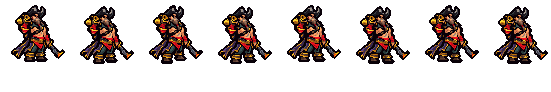
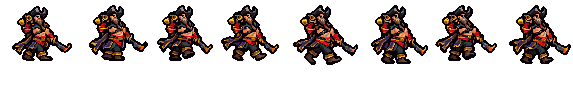
Gangplank's walk from Codex's skin swap over oppi's Swain run (「船长走路也有点僵硬的」): read back by design_gangplank_run.py, the design's head/hat/cannon stamped, rig_gangplank codex_walk

Changed region(s): [[0.0, 0.0435, 1.0, 0.6957]]

diff --git a/tools/art/design_gangplank_run.py b/tools/art/design_gangplank_run.py
@@ -1,0 +1,120 @@
+#!/usr/bin/env python3
+"""Gangplank's walk: Codex's skin swap over oppi's Swain run (assets/source/gangplank/codex_run/gangplank-run-generated.png,
+2026-10-18, tools/art/pack_redo_1018.py; the user: 「船长走路也有点僵硬的」) read back as 8 frames on the design's grid for
+tools/art/rig_gangplank.py.
+
+    python tools/art/design_gangplank_run.py [--probe]   # -> assets/source/gangplank/hd/run_<k>.png (k = 0..7)
+
+Read from Codex's raw generation (1902 x 827; the delivered 2208 x 960 is that picture enlarged by 1.16, so its squares
+are uneven). Each figure is found as a big non-green piece, read back at SIZE px a square (regrid.py; --probe prints the
+read-back heights at several sizes against the design's 62 rows hat to soles), alpha 0/255 at 128; the key's fringe
+(green 40 over red and blue) is cleared; every colour is snapped to the design's own palette; 8-connected crumbs of at
+most 4 squares apart from the figure are dropped; the design's head, hat and hand cannon (top HEAD_ROWS rows) stamped
+on each frame where they match best. The frames keep oppi's order.
+"""
+import argparse
+import os
+import sys
+
+import numpy as np
+from PIL import Image
+from scipy import ndimage
+
+HERE = os.path.dirname(os.path.abspath(__file__))
+ROOT = os.path.dirname(os.path.dirname(HERE))
+sys.path.insert(0, HERE)
+sys.path.insert(0, os.path.join(ROOT, ".claude", "skills", "tfm2-hero-mod", "scripts"))
+import regrid as RG  # noqa: E402
+
+
+def lp(p):
+    p = os.path.abspath(p)
+    pre = chr(92) * 2 + "?" + chr(92)
+    return pre + p if os.name == "nt" and not p.startswith(pre) else p
+
+
+SRC = os.path.join(ROOT, "assets", "source", "gangplank")
+SHEET = os.path.join(SRC, "codex_run", "gangplank-run-generated.png")
+SIZE = 6.15
+DESIGN_ROWS = 62
+HEAD_ROWS = 24          # the design's hat, face, beard top and the hand cannon on the shoulder: stamped as drawn on every
+                        # frame (Codex redrew them 0-15 % bigger or smaller frame to frame - a flickering head)
+
+
+def stamp_head(d, des):
+    """The design's top HEAD_ROWS rows put over the frame where they match best; the frame's own squares inside that
+    box cleared first (its redrawn hat and cannon)."""
+    t = des[:HEAD_ROWS].astype(float)
+    tm = t[..., 3] > 0
+    H, W = t.shape[:2]
+    f = np.zeros((d.shape[0] + 8, d.shape[1] + 16, 4), np.uint8)
+    f[4:4 + d.shape[0], 8:8 + d.shape[1]] = d
+    best = None
+    for y in range(0, 9):
+        for x in range(0, f.shape[1] - W + 1):
+            w = f[y:y + H, x:x + W].astype(float)
+            m = (w[..., 3] > 0) | tm
+            e = (((w[..., :3] - t[..., :3]) ** 2).sum(-1) * m).sum() / m.sum() + 2e4 * ((w[..., 3] > 0) != tm).mean()
+            if best is None or e < best[0]:
+                best = (e, y, x)
+    _, y, x = best
+    box = f[y:y + H, x:x + W]
+    box[...] = 0
+    box[tm] = des[:HEAD_ROWS][tm]
+    ys, xs = np.nonzero(f[..., 3])
+    return f[ys.min():ys.max() + 1, xs.min():xs.max() + 1], (y - 4, x - 8)
+
+
+def figures(a):
+    g = (a[..., 1] > 180) & (a[..., 1] - np.maximum(a[..., 0], a[..., 2]) > 100)
+    op = ~g
+    lbl, n = ndimage.label(ndimage.binary_closing(op, iterations=3))
+    sizes = ndimage.sum(op, lbl, range(1, n + 1))
+    boxes = []
+    for k in [k + 1 for k, s in enumerate(sizes) if s > 8000]:
+        ys, xs = np.nonzero(lbl == k)
+        boxes.append((ys.min(), ys.max(), xs.min(), xs.max()))
+    boxes.sort(key=lambda b: (b[0] // 300, b[2]))
+    if len(boxes) != 8:
+        sys.exit(f"{len(boxes)} figures found, not 8")
+    return [np.dstack([a[y0:y1 + 1, x0:x1 + 1], np.where(op[y0:y1 + 1, x0:x1 + 1], 255, 0)]).astype(np.uint8)
+            for y0, y1, x0, x1 in boxes]
+
+
+def main():
+    ap = argparse.ArgumentParser()
+    ap.add_argument("--probe", action="store_true")
+    ap.add_argument("--size", type=float, default=SIZE)
+    args = ap.parse_args()
+    a = np.asarray(Image.open(lp(SHEET)).convert("RGB")).astype(np.int64)
+    figs = figures(a)
+    if args.probe:
+        print("auto size", RG.regrid(figs[0])[1])
+        for s in (5.8, 6.0, 6.1, 6.15, 6.2, 6.3, 6.5):
+            print(s, [RG.regrid(f, s)[0].shape[0] for f in figs])
+        return
+    des = np.asarray(Image.open(lp(os.path.join(SRC, "hd", "design.png"))).convert("RGBA")).astype(np.int64)
+    pal = np.unique(des[des[..., 3] > 0][:, :3], axis=0)
+    for k, sub in enumerate(figs):
+        d, _, _ = RG.regrid(sub, args.size)
+        d = d.astype(np.int64)
+        op = d[..., 3] >= 128
+        op &= ~((d[..., 1] - np.maximum(d[..., 0], d[..., 2])) > 40)
+        px = d[op][:, :3]
+        d[op, :3] = pal[np.argmin(((px[:, None, :] - pal[None, :, :]) ** 2).sum(-1), 1)]
+        lbl, n = ndimage.label(op, structure=np.ones((3, 3)))
+        sizes = ndimage.sum(op, lbl, range(1, n + 1))
+        for j, z in enumerate(sizes):
+            if z <= 4:
+                op[lbl == j + 1] = False
+        d[..., 3] = np.where(op, 255, 0)
+        d[~op] = 0
+        ys, xs = np.nonzero(op)
+        d = d[ys.min():ys.max() + 1, xs.min():xs.max() + 1].astype(np.uint8)
+        d, at = stamp_head(d, des.astype(np.uint8))
+        Image.fromarray(d).save(lp(os.path.join(SRC, "hd", f"run_{k}.png")))
+        print(f"frame {k}: {d.shape[1]} x {d.shape[0]} squares, {n - 1} crumbs before cleaning, head stamped at {at}")
+
+
+if __name__ == "__main__":
+    main()

diff --git a/tools/art/rig_gangplank.py b/tools/art/rig_gangplank.py
@@ -353,10 +353,41 @@ def walk(F, steps=None):
     return out
 
 
+# The walk since 2026-10-18 (the user: 「船长走路也有点僵硬的」): Codex's skin swap over oppi's Swain run (Akshan's accepted
+# way), assets/source/gangplank/hd/run_<k>.png read back by tools/art/design_gangplank_run.py with the design's head, hat
+# and hand cannon stamped on. Each frame stands with its soles on the design's ground row and the middle of its red sash
+# (the hips) over the design's, so the body does not slide from frame to frame. walk() above stays for reference.
+RUN_FRAMES = 8
+
+
+def sash_x(a):
+    """The middle column of the red sash (bright red under the belly) in the lower half of a frame."""
+    h = a.shape[0]
+    low = a[h // 2:h - 8].astype(int)
+    m = (low[..., 3] > 0) & (low[..., 0] > 170) & (low[..., 1] < 90) & (low[..., 2] < 90)
+    return float(np.nonzero(m)[1].mean())
+
+
+def codex_walk(F):
+    rig, D = F.rig, F.D
+    cx = sash_x(D.d)
+    out = []
+    for k in range(RUN_FRAMES):
+        f = load(f"run_{k}.png")
+        h, w = f.shape[:2]
+        x0 = rig.ox + int(round(cx - sash_x(f)))
+        y0 = rig.oy + D.ground - h
+        can = rig.canvas()
+        m = f[..., 3] > 0
+        can[y0:y0 + h, x0:x0 + w][m] = f[m]
+        out.append(can)
+    return out
+
+
 def frames(F):
     """{tag: [(canvas, ms)]} in the sheet's order."""
     a = frames_all(F)
-    a = {"idle": a["idle"], "run": walk(F), **{k: v for k, v in a.items() if k != "idle"}}
+    a = {"idle": a["idle"], "run": codex_walk(F), **{k: v for k, v in a.items() if k != "idle"}}
     out = {}
     for tag, cans in a.items():
         ms = MS[tag]

diff --git a/assets/source/gangplank/codex_run/HANDOFF.md b/assets/source/gangplank/codex_run/HANDOFF.md
@@ -1,0 +1,17 @@
+# 普朗克行走 8 帧交接
+
+## 文件
+- gangplank-run-8frames.png：交付精灵图，2208×960，4列×2行，每格552×480。顺序左到右、上到下。
+- raw/gangplank-run-generated.png：生成器原图，1902×827，未修改。
+- generation-prompts.txt：实际生成提示词及导出处理记录。
+- source-brief.md：压缩包原始需求，留作追溯；其中给 Claude 的文字属于后续交接内容。
+
+## 本次结果
+已生成八帧，包含迈步、收腿、抬膝、衣摆摆动；保留海盗帽、胡子、纹身腹部、紫金大衣、肩扛金炮与灼红刀尖等主要设计。导出图采用最近邻缩放，并将绿色背景统一为 #00FF00。
+
+## 已知限制与后续接入
+这是供后续像素整理使用的生成素材，尚未完成游戏内验收。尺寸与4×2布局已统一，但并非对骨架图逐像素复刻；生成器仍有武器细节、比例及脚底高度的逐帧偏差。原生逻辑像素网格也未重建，不能把缩放后的像素直接当作游戏逻辑像素。
+
+接收方需按原需求：人工确认逻辑网格，去绿边、统一定稿色板和零碎像素；逐帧对齐脚底与身体中心；从角色定稿提取手炮与弯刀，按定稿原样盖章以消除生成差异。请检查两腿前后交替及第8帧至第1帧的衔接，必要时继续调整。
+
+本次仅收到参考图片与说明，没有目标项目源码、rig_gangplank.py 或 PPU 工具，因此未修改游戏文件，也未执行 ppu_restyle、ppu_hd、ppu_one。
